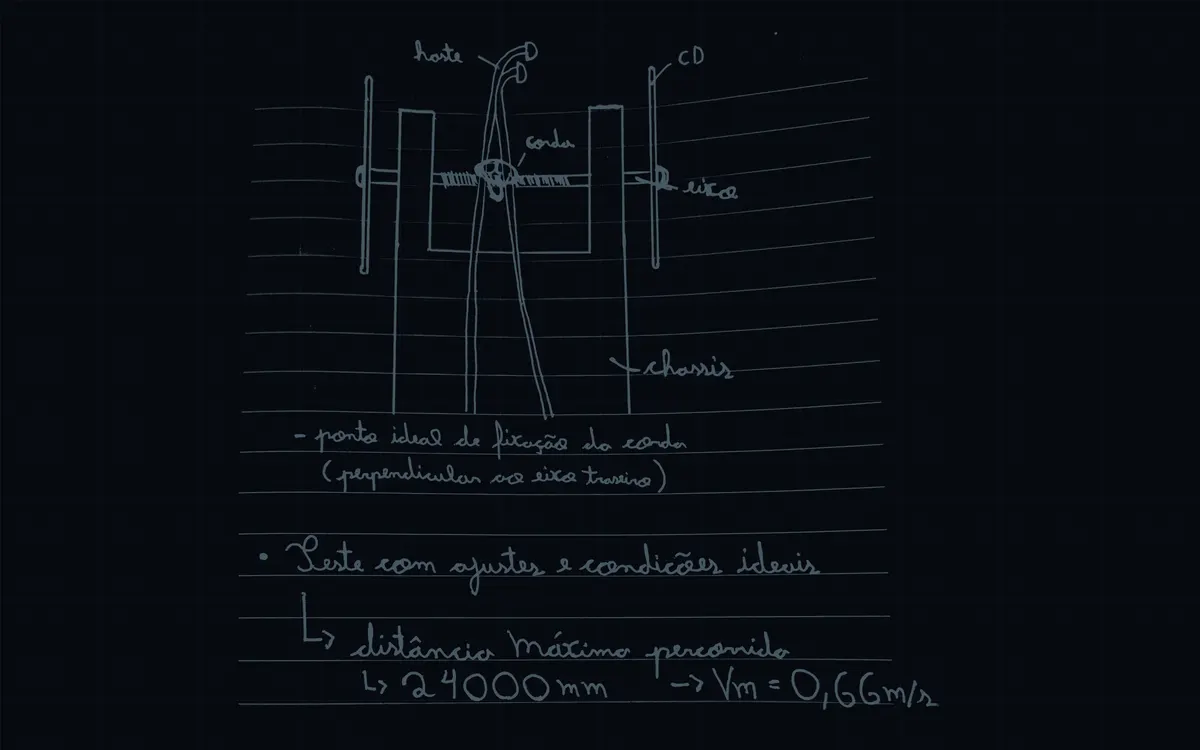
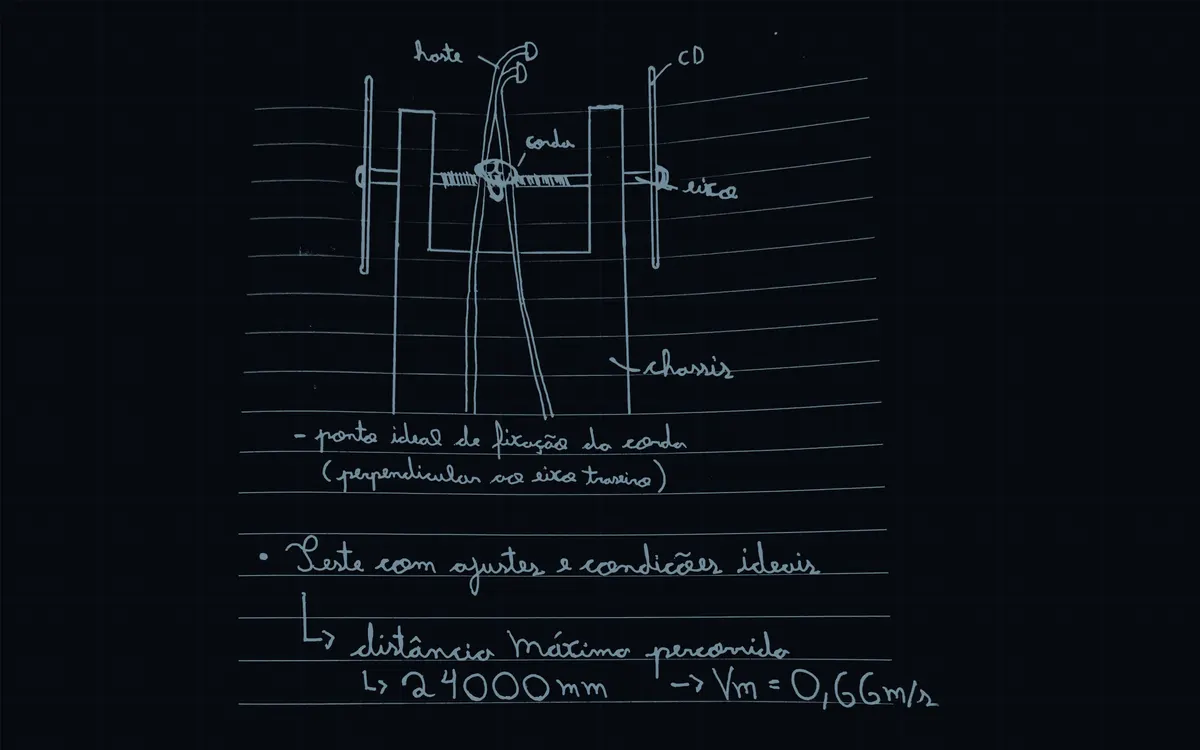
loop 043: croqui do IFSP mais visível
A tinta do desenho sobe para 70% e o fundo do IFSP ganha um véu mais leve,
para as contas abaixo do card aparecerem.

Claude-Session: https://claude.ai/code/session_01VsPyKxxCsBcQBFtVVxpovk

diff --git a/src/app/scenes/Story.css b/src/app/scenes/Story.css
@@ -341,6 +341,14 @@
     linear-gradient(90deg, rgb(5 6 8 / 0.55) 0%, transparent 40%);
 }
 
+/* his sketch is line on dark already: a lighter veil, so the notes below the
+   card read too (the words keep their halo) */
+.story-bg-layer[data-bg="ifsp"]::after {
+  background:
+    linear-gradient(180deg, rgb(5 6 8 / 0.05) 0%, rgb(5 6 8 / 0.2) 38%, rgb(5 6 8 / 0.5) 52%, rgb(5 6 8 / 0.35) 100%),
+    linear-gradient(90deg, rgb(5 6 8 / 0.5) 0%, transparent 40%);
+}
+
 .story-bg-img {
   width: 100%;
   height: 100%;
